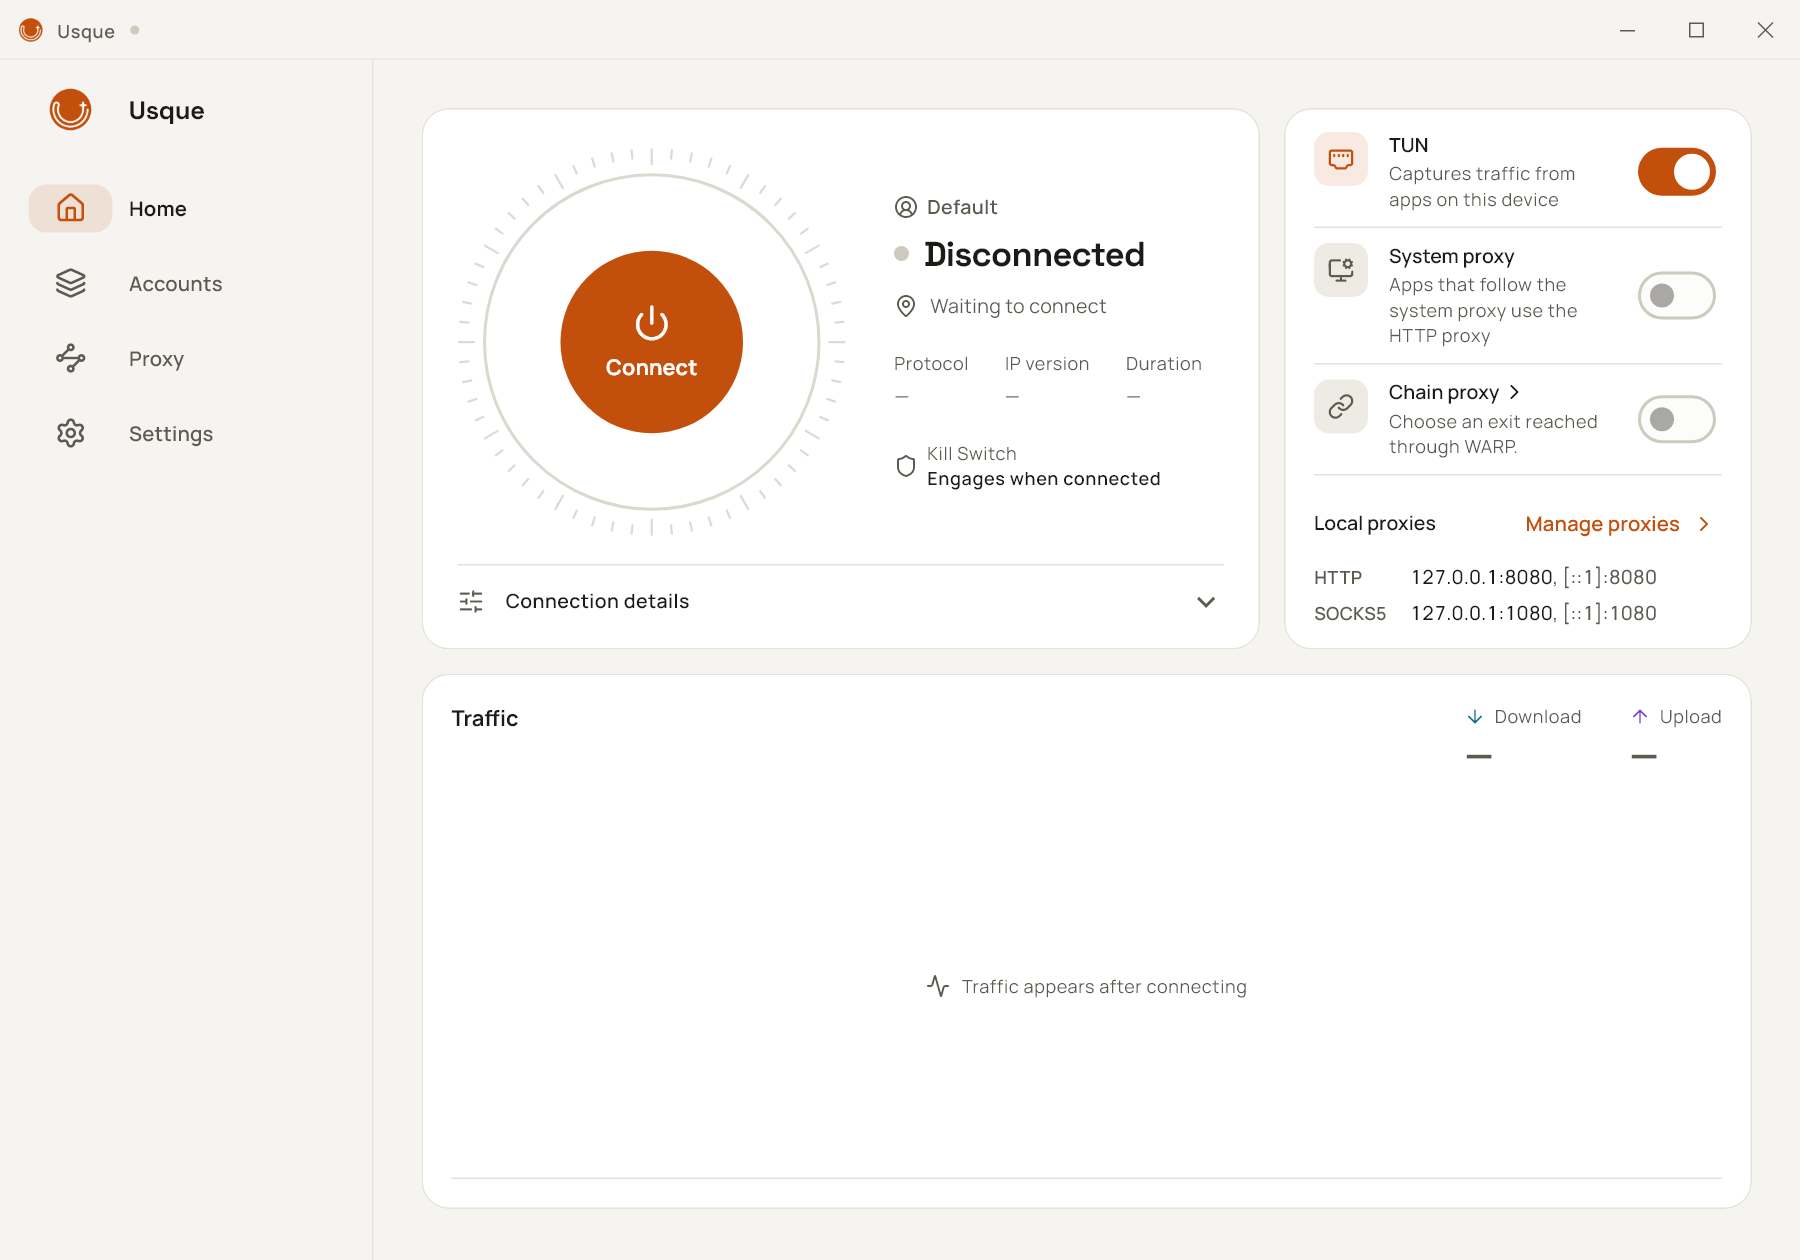
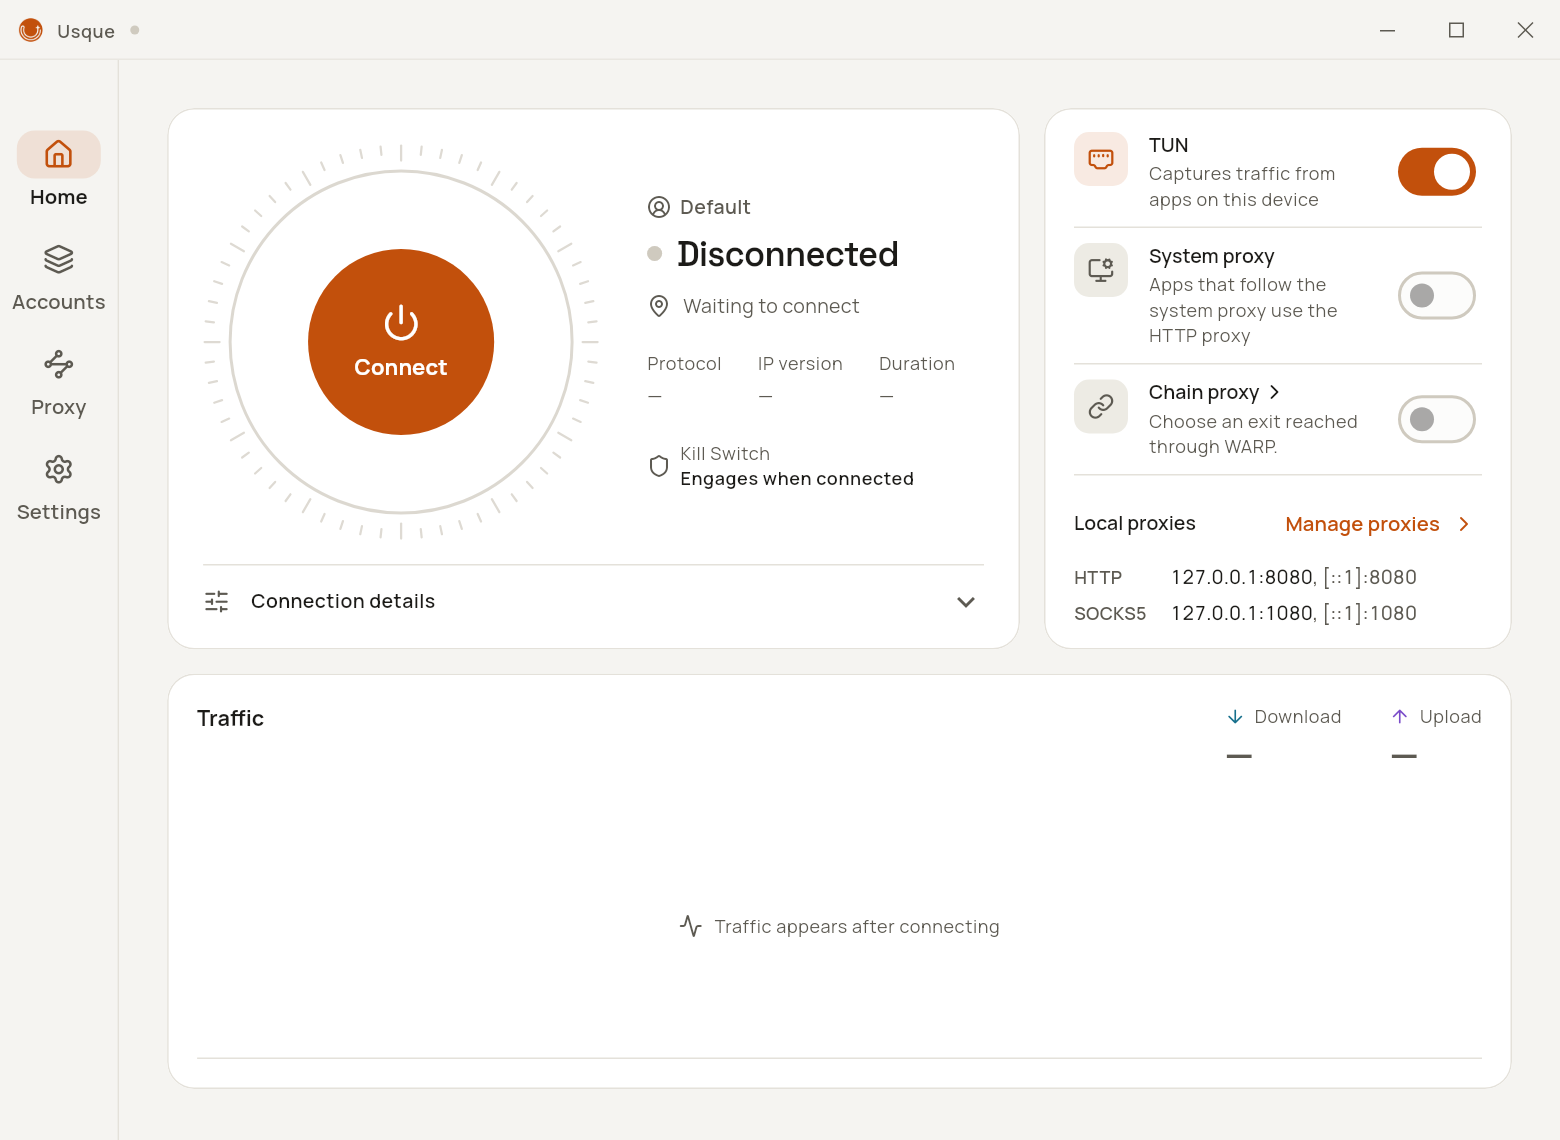
fix(gui): size desktop windows to the side-by-side Home layout
Open Windows at 1040x760 so the compact rail leaves Home its full
side-by-side width and ring, with room for the traffic chart above
the 40 px caption. Open Linux at 1280x800 so Home fits without
scrolling even when a GNOME header bar is counted in the window size,
and share the size constants with the resize detection.

Move the extended rail breakpoint from 1050 to 1180. The labelled rail
takes 249 px, which previously forced Home back to the stacked layout
between 1050 and 1172 px. A widget test now covers both sides of the
breakpoint.

Regenerate the Windows default-size golden on Windows and refresh the
README Windows screenshot at the new default size.

Validation: Linux format, analyze, widget suite (1240 passed) and
Linux goldens (27) passed; the Windows golden suite passed (91, 27
Linux-only skipped) with pinned Flutter 3.44.7. Rust fmt, Clippy and
workspace tests, Linux preview and release builds, native Linux
fixtures, sidecar build, Linux package tests, repository policy and
git diff --check passed. Not run: Windows full Flutter suite, Windows
Rust gates, Windows build and runner geometry test, and native GNOME
window sizing.

diff --git a/apps/usque_gui/test/mobile_home_test.dart b/apps/usque_gui/test/mobile_home_test.dart
@@ -150,6 +150,37 @@ void main() {
   );
 
   testWidgets(
+    'desktop Home stays side by side across the rail label breakpoint',
+    (tester) async {
+      final fixture = _Fixture()..sample(1);
+      await _show(tester, fixture, size: const Size(1100, 900));
+      for (final (width, extended) in [
+        (1100.0, false),
+        (1179.0, false),
+        (1180.0, true),
+        (1280.0, true),
+      ]) {
+        tester.view.physicalSize = Size(width, 900);
+        await tester.pumpAndSettle();
+        final reason = 'width=$width';
+        expect(
+          tester.widget<NavigationRail>(find.byType(NavigationRail)).extended,
+          extended,
+          reason: reason,
+        );
+        // The output card sits beside the session card, not below it.
+        expect(
+          tester.getRect(find.byKey(const ValueKey('home-local-proxies'))).left,
+          greaterThan(tester.getRect(find.byType(ConnectionRing)).right),
+          reason: reason,
+        );
+      }
+      expect(tester.takeException(), isNull);
+    },
+    variant: TargetPlatformVariant.only(TargetPlatform.windows),
+  );
+
+  testWidgets(
     'desktop traffic card takes the spare page height down to its minimum',
     (tester) async {
       final fixture = _Fixture()..sample(1);

diff --git a/apps/usque_gui/lib/screens/shell_screen.dart b/apps/usque_gui/lib/screens/shell_screen.dart
@@ -213,7 +213,9 @@ class _ShellScreenState extends State<ShellScreen> {
   static const double _railBreakpoint = 760;
 
   /// Width at which the rail can afford to show labels beside the icons.
-  static const double _extendedBreakpoint = 1050;
+  /// The extended rail takes 249 px with its divider, so this leaves Home its
+  /// 860 px side-by-side width plus page gutters instead of stacking it.
+  static const double _extendedBreakpoint = 1180;
 
   KeyEventResult _handleNavigationKey(
     KeyEvent event, {

diff --git a/apps/usque_gui/windows/runner/zero_trust_windows_test.cpp b/apps/usque_gui/windows/runner/zero_trust_windows_test.cpp
@@ -65,14 +65,14 @@ void firstLaunchCentresAndRestoreRescales() {
   const RECT centred = usque::CenterWindowBounds(
       usque::kDefaultWindowWidth, usque::kDefaultWindowHeight,
       {0, 0, 1920, 1032});
-  Expect(centred.left == 450 && centred.top == 152 && centred.right == 1470 &&
-             centred.bottom == 880,
+  Expect(centred.left == 440 && centred.top == 136 && centred.right == 1480 &&
+             centred.bottom == 896,
          "windowBounds.centredOnWorkArea");
   const RECT secondary =
       usque::CenterWindowBounds(usque::kDefaultWindowWidth,
                                 usque::kDefaultWindowHeight,
                                 {-1920, 40, 0, 1040});
-  Expect(secondary.left == -1470 && secondary.top == 176,
+  Expect(secondary.left == -1480 && secondary.top == 160,
          "windowBounds.centredOnNegativeMonitor");
   const RECT oversized = usque::CenterWindowBounds(2000, 1200, {0, 0, 1024, 728});
   Expect(oversized.left == 0 && oversized.top == 0 && oversized.right == 1024 &&

diff --git a/apps/usque_gui/linux/runner/desktop_shell.cc b/apps/usque_gui/linux/runner/desktop_shell.cc
@@ -733,7 +733,8 @@ gboolean window_state(GtkWidget* widget, GdkEvent*, gpointer data) {
   auto* self = static_cast<Shell*>(data);
   if (!self->files_ready) {
     int width, height; gtk_window_get_size(self->window, &width, &height);
-    self->window_touched |= width != 1280 || height != 720 || gtk_window_is_maximized(self->window);
+    self->window_touched |= width != kUsqueDefaultWindowWidth ||
+                           height != kUsqueDefaultWindowHeight || gtk_window_is_maximized(self->window);
     return FALSE;
   }
   const bool maximized = gtk_window_is_maximized(GTK_WINDOW(widget));

diff --git a/apps/usque_gui/linux/runner/desktop_shell.h b/apps/usque_gui/linux/runner/desktop_shell.h
@@ -4,6 +4,10 @@
 #include <flutter_linux/flutter_linux.h>
 #include <gtk/gtk.h>
 
+// First-launch size; a window still at this size has not been resized.
+inline constexpr int kUsqueDefaultWindowWidth = 1280;
+inline constexpr int kUsqueDefaultWindowHeight = 800;
+
 void usque_register_desktop_shell(GtkApplication* application, GtkWindow* window,
                                    FlBinaryMessenger* messenger);
 void usque_desktop_open_uri(const char* uri);

diff --git a/apps/usque_gui/windows/runner/window_geometry.h b/apps/usque_gui/windows/runner/window_geometry.h
@@ -8,8 +8,8 @@
 namespace usque {
 
 // Logical client size, including the Flutter-drawn caption.
-inline constexpr int kDefaultWindowWidth = 1020;
-inline constexpr int kDefaultWindowHeight = 728;
+inline constexpr int kDefaultWindowWidth = 1040;
+inline constexpr int kDefaultWindowHeight = 760;
 
 // Physical pixels. Keep the initial window and its minimum tracking size
 // inside the monitor's usable area, including at high DPI or above a taskbar.

diff --git a/apps/usque_gui/linux/runner/my_application.cc b/apps/usque_gui/linux/runner/my_application.cc
@@ -67,7 +67,8 @@ static void my_application_activate(GApplication* application) {
     gtk_window_set_title(window, kWindowTitle);
   }
 
-  gtk_window_set_default_size(window, 1280, 720);
+  gtk_window_set_default_size(window, kUsqueDefaultWindowWidth,
+                              kUsqueDefaultWindowHeight);
 
   g_autoptr(FlDartProject) project = fl_dart_project_new();
   fl_dart_project_set_dart_entrypoint_arguments(
